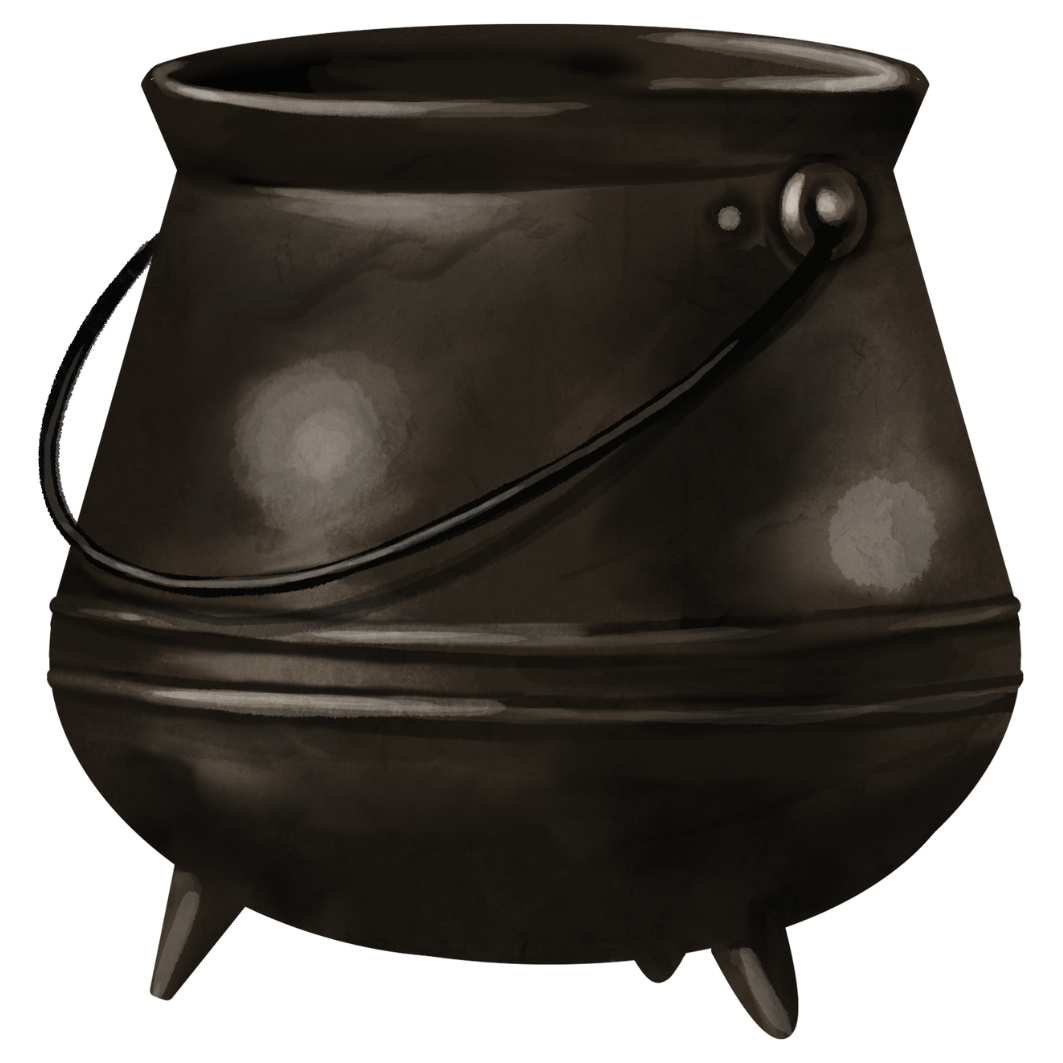
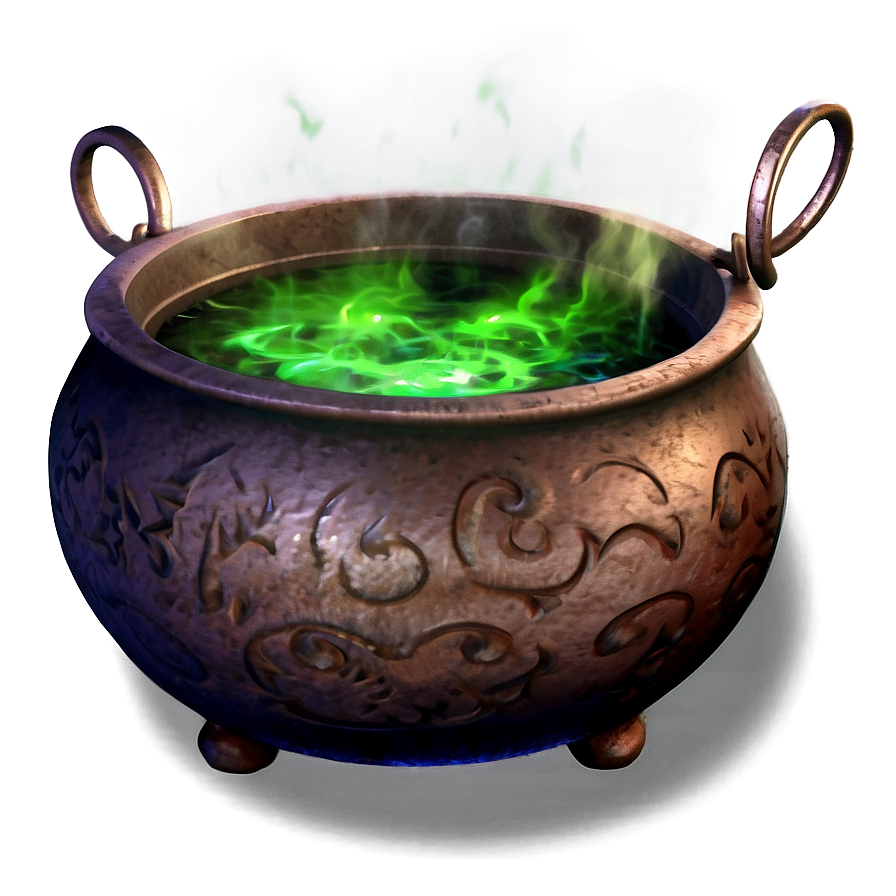
updated assessment code

diff --git a/script.js b/script.js
@@ -1,131 +1,145 @@
 document.addEventListener("DOMContentLoaded", () => {
-  // elements from the HTML
-  const overlay = document.getElementById("start-overlay"); // the "click to start" screen
-  const potions = document.querySelectorAll(".potion"); // all potion bottles
-  const cauldron = document.getElementById("cauldron"); // the cauldron in the middle
+  // Day/Night Background
+  const body = document.body;
+  const hour = new Date().getHours();
+
+  if (hour >= 6 && hour < 18) {
+    body.style.backgroundImage = "url('background-day.png')";
+  } else {
+    body.style.backgroundImage = "url('background-night.png')";
+  }
+
+  body.style.backgroundRepeat = "no-repeat";
+  body.style.backgroundPosition = "center center";
+  body.style.backgroundSize = "cover";
+
+  // Elements from the HTML
+  const overlay = document.getElementById("start-overlay");
+  const potions = document.querySelectorAll(".potion");
+  const cauldron = document.getElementById("cauldron");
+  const playButton = document.getElementById("playPauseBtn");
+  const icon = document.getElementById("icon");
 
   // Tone.js Synths
   const synths = {
     bass: new Tone.MembraneSynth().toDestination(),
     pad: new Tone.PolySynth(Tone.Synth).toDestination(),
-    pluck: new Tone.PluckSynth().toDestination(),
-    bell: new Tone.MetalSynth().toDestination(),
+    pluck: new Tone.PolySynth(Tone.Synth, {
+      oscillator: { type: "sawtooth", count: 3, spread: 30 },
+      // Fat oscillator effect instead of the pluck synth as it was too annoying
+    }).toDestination(),
+    bell: new Tone.PolySynth(Tone.MetalSynth).toDestination(),
+    // Realised for MetalSynth I need to put it within a PolySynth,
+    // so that the melody doesn't glitch and play one constant note
+    //
   };
 
-  // default melody setup 
-  // will play these notes in order (default melody)
   let melody = ["C4", "Eb4", "F4", "G4"];
-
-  // keep track of which synths are active (chosen by dropping potions)
   let activeSynths = [];
-
-  // a loop that plays the melody (will start when cauldron is clicked)
   let melodyLoop = null;
+  let isPlaying = false;
 
-  // enabling audio 
-  // browsers need a click to allow sound to be played
+  // Enable Audio
   overlay.addEventListener("click", async () => {
-    await Tone.start(); // start Tone.js
-    overlay.style.display = "none"; // hide overlay
+    await Tone.start();
+    overlay.style.display = "none";
   });
 
-  // --- drag potions onto the cauldron function ---
+  // Drag & Drop Potions
   potions.forEach((potion) => {
-    // when dragging starts, remember which potion type it is
     potion.addEventListener("dragstart", (event) => {
       event.dataTransfer.setData("text/plain", potion.dataset.sound);
     });
   });
 
-  // allow potions to be dropped onto cauldron
   cauldron.addEventListener("dragover", (event) => event.preventDefault());
-
   cauldron.addEventListener("drop", (event) => {
     event.preventDefault();
     const potionType = event.dataTransfer.getData("text/plain");
     addPotion(potionType);
   });
 
-  // clicking the cauldron to play / stop melody
-  cauldron.addEventListener("click", () => {
-    if (melodyLoop) {
-      // if it’s already playing, stop everything
-      melodyLoop.stop();
-      Tone.Transport.stop();
-      melodyLoop = null;
+  // Play/Pause Button
+  playButton.addEventListener("click", () => {
+    if (isPlaying) {
+      stopMelody();
+      icon.src = "play-icon.png";
+      isPlaying = false;
     } else {
-      // otherwise start playing melody
       playMelody();
+      icon.src = "pause-icon.png";
+      isPlaying = true;
     }
   });
 
-  // --- Add potion effect ---
+  // Add Potion Effects to Cauldron
   function addPotion(type) {
     if (type === "random") {
-      // this potion randomises the melody
-      melody = generateRandomMelody();
+      // Randomly choose notes
+      melody = [];
+      for (let i = 0; i < 5; i++) {
+        melody.push(generateRandomNote());
+      }
     } else if (type === "reset") {
-      // this potion resets everything
       resetCauldron();
     } else {
-      // otherwise, add the synth sound if not added yet
-      if (!activeSynths.includes(type)) {
-        activeSynths.push(type);
-      }
+      if (!activeSynths.includes(type)) activeSynths.push(type);
     }
   }
 
-  // --- play the melody ---
+  // Play Melody
   function playMelody() {
-    let index = 0; // which note to play first
-
-    // loop plays notes one by one every quarter note ("4n")
+    let index = 0;
     melodyLoop = new Tone.Loop((time) => {
-      const note = melody[index % melody.length]; // pick note in sequence
-
-      // play that note on every active synth
+      const note = melody[index % melody.length];
       activeSynths.forEach((type) => {
         const synth = synths[type];
-        if (synth) {
-          synth.triggerAttackRelease(note, "8n", time);
-        }
+        if (synth) synth.triggerAttackRelease(note, "8n", time);
       });
-
-      index++; // move to next note
+      index++;
     }, "4n");
 
-    // start the loop and the transport for sound
     melodyLoop.start(0);
     Tone.Transport.start();
   }
 
-  // random melody generator
-  function generateRandomMelody() {
-    const newMelody = [];
-    const octaves = [3, 4, 5]; // low, middle, high range
-    const noteNames = ["C", "C#", "D", "D#", "E", "F", "F#", "G", "G#", "A", "A#", "B"];
-
-    // pick 8 random notes
-    for (let i = 0; i < 5; i++) {
-      const note = noteNames[Math.floor(Math.random() * noteNames.length)];
-      const octave = octaves[Math.floor(Math.random() * octaves.length)];
-      newMelody.push(note + octave); // combine e.g. "C" + 4 → "C4"
-    }
-
-    return newMelody;
-  }
-
-  // reset cauldron function
-  function resetCauldron() {
-    // stop melody if it’s playing
+  // Stop melody
+  function stopMelody() {
     if (melodyLoop) {
       melodyLoop.stop();
       Tone.Transport.stop();
       melodyLoop = null;
     }
+  }
 
-    // clear everything back to default
+  // Random note generator
+  function generateRandomNote() {
+    const octaves = [4, 5];
+    const notes = [
+      "C",
+      "C#",
+      "D",
+      "D#",
+      "E",
+      "F",
+      "F#",
+      "G",
+      "G#",
+      "A",
+      "A#",
+      "B",
+    ]; // Keeping notes within the chromatic scale
+    const note = notes[Math.floor(Math.random() * notes.length)];
+    const octave = octaves[Math.floor(Math.random() * octaves.length)];
+    return note + octave;
+  }
+
+  // Reset Cauldron function
+  function resetCauldron() {
+    stopMelody();
     activeSynths = [];
     melody = ["C4", "Eb4", "F4", "G4"];
+    icon.src = "play-icon.png";
+    isPlaying = false;
   }
 });

diff --git a/style.css b/style.css
@@ -4,7 +4,7 @@ body {
   padding: 0;
   height: 100vh;
   width: 100vw;
-  background: url("background.png") no-repeat center center / cover;
+  background: url("background-night.png") no-repeat center center / cover;
   display: flex;
   justify-content: center;
   align-items: flex-end;
@@ -14,7 +14,7 @@ body {
 
 /* potion room wrapper */
 #potion-room {
-  position: relative;
+  position: relative; /* so cauldron and potions are positioned inside it */
   width: 100%;
   height: 100vh;
   max-width: 1400px;
@@ -22,17 +22,42 @@ body {
   flex-direction: column;
   align-items: center;
   justify-content: flex-end;
+  overflow: hidden; /* ensures nothing scrolls outside */
 }
 
 /* cauldron */
 #cauldron {
-  width: 20%;
-  max-width: 250px;
+  position: absolute; /* keeps it from pushing layout */
+  bottom: -20%; /* move it slightly below the screen */
+  width: 40%;
+  max-width: 850px;
   aspect-ratio: 1 / 1;
   background: url("cauldron.png") no-repeat center center / contain;
+  z-index: 1;
+  overflow: hidden; 
+}
+/* The round button in the center of the cauldron */
+#playPauseBtn {
+  position: absolute;
+  bottom: 30px;       /* adjust to sit nicely on cauldron */
+  left: 49%;          /* roughly center it */
+  transform: translateX(-50%);
+  background: none;
+  border: none;
   cursor: pointer;
-  margin-bottom: 3%;
-  z-index: 2;
+  z-index: 10;        /* above the cauldron */
+}
+
+#playPauseBtn img {
+  width: 80px;        /* adjust size of icon */
+  height: 80px;
+  object-fit: contain;
+  transition: transform 0.2s ease;
+}
+
+#playPauseBtn:hover img {
+  transform: scale(1.1); /* small hover effect */
+  filter: drop-shadow(0 0 20px #13c20de6);
 }
 
 /* potion bottles (base styling) */
@@ -45,6 +70,12 @@ body {
   background-repeat: no-repeat;
   background-position: center;
   cursor: grab;
+  transition: transform 0.2s ease, filter 0.3s ease;
+  filter: drop-shadow(0 0 8px rgba(255, 255, 255, 0.5));
+}
+.potion:hover {
+  transform: scale(1.05);
+  filter: drop-shadow(0 0 20px rgba(255, 220, 150, 0.9));
 }
 
 /* positions of potions (used percentages to keep the potions in the same area on different screens.) */
@@ -63,19 +94,19 @@ body {
 #potion-pluck {
   background-image: url("potion-pluck.png");
   top: 35%;
-  left: 2%;
+  left: 3%;
 }
 
 #potion-random {
   background-image: url("potion-random.png");
-  top: 9%;
-  left: 2%;
+  top: 35%;
+  left: -3%;
 }
 
 #potion-reset {
   background-image: url("potion-reset.png");
-  top: 9%;
-  right: 2%;
+  top: 35%;
+  right: -2%;
 }
 
 #potion-bell {

diff --git a/index.html b/index.html
@@ -8,7 +8,7 @@
     <script src="https://cdnjs.cloudflare.com/ajax/libs/tone/14.8.49/Tone.js"></script>
   </head>
   <body>
-    <!-- Start overlay (required for Tone.js to unlock audio) -->
+    <!-- Start overlay -->
     <div id="start-overlay">
       <h1>Welcome to the Synth Potion Room</h1>
       <p>Click anywhere to begin the magic!</p>
@@ -17,6 +17,10 @@
     <div id="potion-room">
       <!-- Cauldron -->
       <div id="cauldron"></div>
+      <!-- Play button on top of cauldron -->
+<button id="playPauseBtn">
+  <img id="icon" src="play-icon.png" alt="Play Button">
+</button>
       <!-- Potions -->
       <div
         class="potion"
